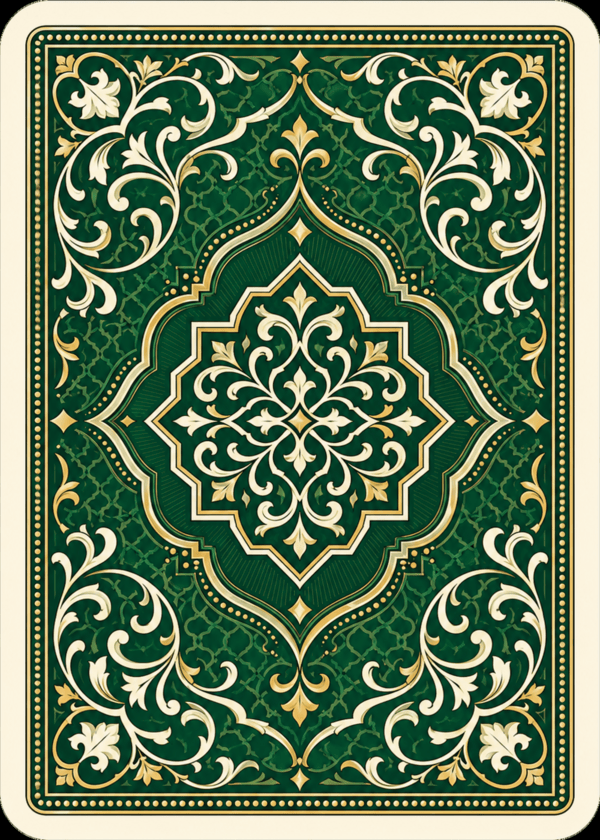
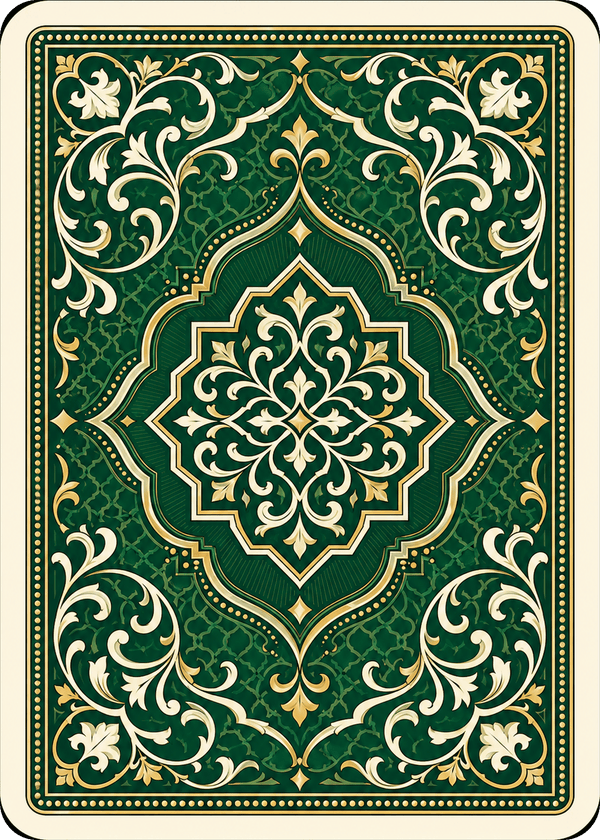
Flutter: add garnet/jade/platinum/sapphire card backs + rendering
New card-back cosmetic assets and their appearance/playing-card wiring.

diff --git a/app_flutter/lib/ui/widgets/playing_card.dart b/app_flutter/lib/ui/widgets/playing_card.dart
@@ -25,6 +25,23 @@ class PlayingCardView extends StatelessWidget {
     final radius = BorderRadius.circular(AppTokens.radiusCard);
     if (card.faceDown) {
       final asset = theme.cardBackAsset;
+      // Image backs carry their own art (border + pre-rounded transparent
+      // corners), so we clip the image to a proportional radius and paint
+      // nothing behind it — the corners reveal the felt, not a fill color.
+      if (asset != null) {
+        final cardRadius = BorderRadius.circular(width * 0.06);
+        return Container(
+          width: width,
+          height: _height,
+          decoration: BoxDecoration(borderRadius: cardRadius, boxShadow: _shadow),
+          child: ClipRRect(
+            borderRadius: cardRadius,
+            child: asset.endsWith('.svg')
+                ? SvgPicture.asset(asset, fit: BoxFit.cover, width: width, height: _height)
+                : Image.asset(asset, fit: BoxFit.cover, width: width, height: _height),
+          ),
+        );
+      }
       return Container(
         width: width,
         height: _height,
@@ -35,14 +52,10 @@ class PlayingCardView extends StatelessWidget {
           border: Border.all(color: const Color(0x33000000)),
         ),
         clipBehavior: Clip.antiAlias,
-        child: asset != null
-            ? (asset.endsWith('.svg')
-                ? SvgPicture.asset(asset, fit: BoxFit.cover, width: width, height: _height)
-                : Image.asset(asset, fit: BoxFit.cover, width: width, height: _height))
-            : theme.cardBackPattern == CardBackPattern.solid
-                ? null
-                : CustomPaint(
-                    painter: _CardBackPainter(theme.cardBackPattern, theme.cardBackAccent)),
+        child: theme.cardBackPattern == CardBackPattern.solid
+            ? null
+            : CustomPaint(
+                painter: _CardBackPainter(theme.cardBackPattern, theme.cardBackAccent)),
       );
     }
 

diff --git a/app_flutter/lib/ui/theme/appearance.dart b/app_flutter/lib/ui/theme/appearance.dart
@@ -282,6 +282,34 @@ const CardBack cardBackEmerald = CardBack(
   pattern: CardBackPattern.solid,
   asset: 'assets/card_backs/emerald.png',
 );
+const CardBack cardBackSapphire = CardBack(
+  id: 'back-sapphire',
+  name: 'Sapphire',
+  color: Color(0xFF1B2B4A),
+  pattern: CardBackPattern.solid,
+  asset: 'assets/card_backs/sapphire.png',
+);
+const CardBack cardBackJade = CardBack(
+  id: 'back-jade',
+  name: 'Jade',
+  color: Color(0xFF14532D),
+  pattern: CardBackPattern.solid,
+  asset: 'assets/card_backs/jade.png',
+);
+const CardBack cardBackGarnet = CardBack(
+  id: 'back-garnet',
+  name: 'Garnet',
+  color: Color(0xFF6E1414),
+  pattern: CardBackPattern.solid,
+  asset: 'assets/card_backs/garnet.png',
+);
+const CardBack cardBackPlatinum = CardBack(
+  id: 'back-platinum',
+  name: 'Platinum',
+  color: Color(0xFF3A3A40),
+  pattern: CardBackPattern.solid,
+  asset: 'assets/card_backs/platinum.png',
+);
 
 const List<CardBack> cardBackPresets = [
   cardBackRoyalBlue,
@@ -289,6 +317,10 @@ const List<CardBack> cardBackPresets = [
   cardBackRose,
   cardBackBlackGold,
   cardBackEmerald,
+  cardBackSapphire,
+  cardBackJade,
+  cardBackGarnet,
+  cardBackPlatinum,
 ];
 
 const String kFreeCardBackId = 'back-royal-blue';
